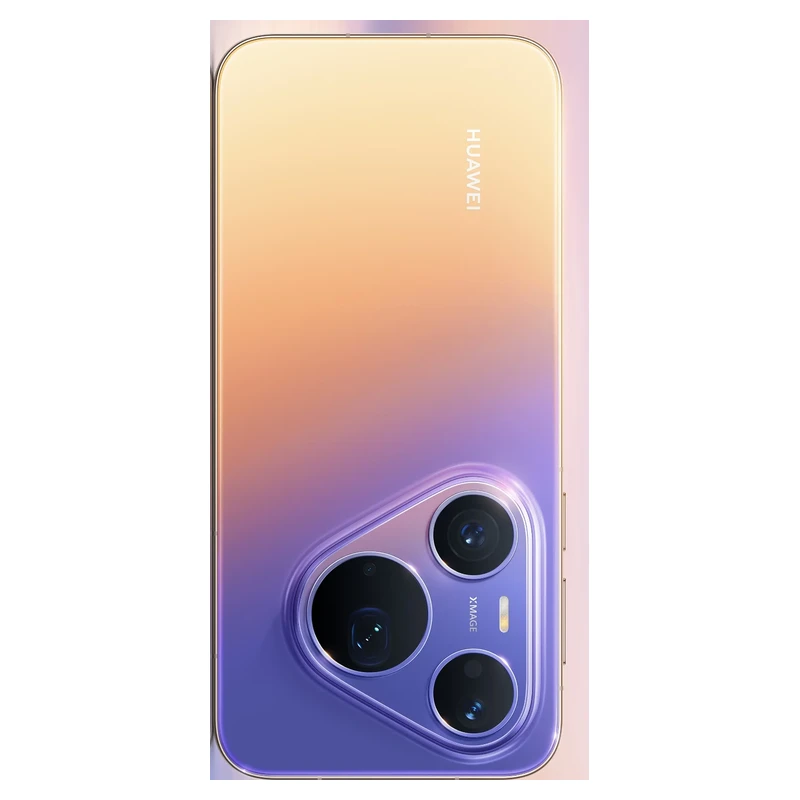
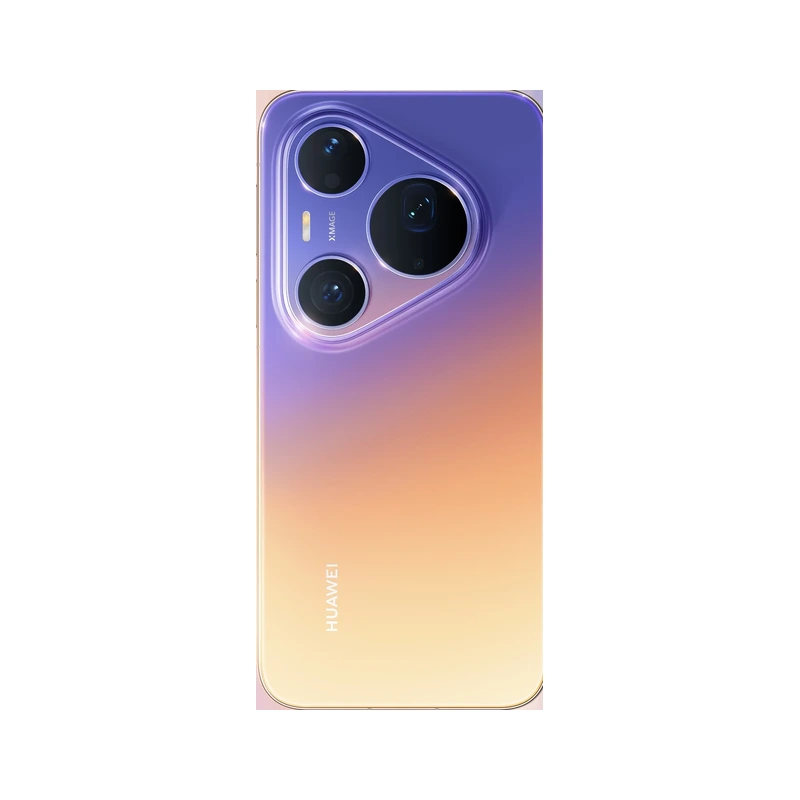
Endereza la foto del Tornasol
Salía de cabeza, con el módulo de cámara abajo: la foto original está
acostada y la roté al revés. Ahora va en el otro sentido y con el
mismo encuadre que las demás vistas del catálogo.

De paso se recorta antes del reflejo sobre la superficie, que se
colaba como una franja rara a un costado.

diff --git a/sw.js b/sw.js
@@ -11,7 +11,7 @@
       SUBE ESTE NÚMERO. Si no, las tablets siguen mostrando
       la versión vieja porque la tienen guardada.
    ============================================================ */
-const VERSION = 'showroom-v9';
+const VERSION = 'showroom-v10';
 
 const ARCHIVOS = [
   './',
